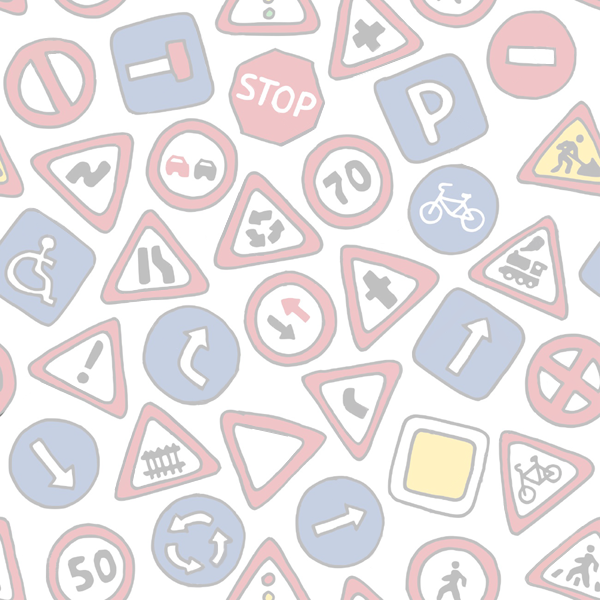
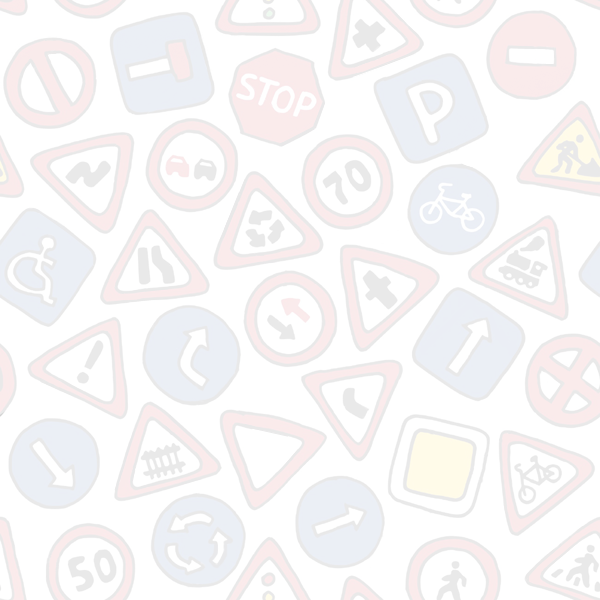
Css cambiado e imágenes nuevas

diff --git a/css/lista_alumnos.css b/css/lista_alumnos.css
@@ -2,6 +2,27 @@
     box-sizing: border-box;
 }
 
+@font-face {
+    font-family: 'Candara'; /*a name to be used later*/
+    src: url('../fonts/Candara.ttf'); /*URL to font*/
+}
+
+@font-face {
+    font-family: 'Gothic'; /*a name to be used later*/
+    src: url('../fonts/Gothic.ttf'); /*URL to font*/
+}
+
+html {
+    background-image: url(../images/tecno.png);
+}
+
+#saludo {
+    margin-left: 20px;
+    font-size: 20px;
+    color: #16004a;
+	text-shadow: 2px 2px 2px #999999;
+}
+
 .row::after {
     content: "";
     clear: both;
@@ -53,12 +74,44 @@
     float: left;
     text-align: center;
     padding-top: 25px;
-    padding-bottom: 22px;
-    border: 1px solid red;
-
+    padding-bottom: 24px;
+    background-color: bisque;
+    border-top-left-radius: 10px;
+    border-bottom-left-radius: 10px;
+    opacity: 0.7;
+    border-bottom: 2px solid rgba(255,255,255,1);
 }
 
 #alum {
     float: left;
-    border: 1px solid blue;
+    background-color: bisque;
+    border-top-right-radius: 10px;
+    border-bottom-right-radius: 10px;
+    opacity: 0.7;
+    border-bottom: 2px solid rgba(255,255,255,1);
+}
+
+body {
+    font-family: "Candara";
+}
+
+#form {
+    font-family: "Gothic";
+    font-size: 14.5px;
+}
+
+#fecha_form {
+    font-family: "Gothic";
+    font-size: 18px;
+}
+
+#lista {
+    border-style: none;
+}
+
+#titulo {
+    margin-top: 0px;
+    font-family: "Candara";
+    color: #16004a;
+    font-size: 30px;
 }

diff --git a/css/calendario.css b/css/calendario.css
@@ -12,15 +12,29 @@ html {
     background-image: url(../images/tecno.png);
 }
 
+#saludo {
+    margin-left: 20px;
+    font-size: 20px;
+    color: #16004a;
+	text-shadow: 2px 2px 2px #999999;
+}
+
+#fecha_form {
+    font-family: "Gothic";
+    font-size: 18px;
+}
+
 
 #ex_p {
     float: left;
     width: 49.5%;
+    color: #16004a;
 }
 
 #ex_t {
     float: right;
     width: 49.5%;
+    color: #16004a;
 }
 
 #fecha {
@@ -34,23 +48,23 @@ html {
 
 #titulo {
     font-family: "Candara";
-    color: #2a2a2a;
+    color: #16004a;
     margin-left: 20px;
 }
 
 #fecha_cl {
     font-family: "Gothic";
-    color: #2a2a2a;
+    color: #21016d;
 }
 
 #alumno_cl {
     font-family: "Candara";
-    color: #2a2a2a;
+    color: #21016d;
 }
 
 #coche_cl {
     font-family: "Gothic";
-    color: #2a2a2a;
+    color: #21016d;
 }
 
 #ex {
@@ -74,7 +88,8 @@ td {
     border-right: 1px solid transparent;
     padding: 10px;
     background-color: bisque;
-    opacity: 0.8;
+    opacity: 0.7;
+    border-radius: 8px;
 }
 
 th {
@@ -83,9 +98,9 @@ th {
     padding-bottom: 10px;
     padding-top: 10px;
     font-family: "Candara";
-    color: #2a2a2a;
+    color: #16004a;
     background-color: bisque;
-    opacity: 0.8;
+    opacity: 0.7;
     border-radius: 8px;
 }
 
@@ -105,6 +120,6 @@ a {
 
 p {
     font-family: "Candara";
-    color: #2a2a2a;
+    color: #16004a;
 }
 

diff --git a/lista_alumnos.php b/lista_alumnos.php
@@ -61,7 +61,7 @@
             var mes = fecha.getMonth() + 1;
             
         $(document).ready(function(){
-            $("#fecha_hoy").append( "<p>Hoy estamos a " + fecha.getDate() + "/" + mes + "/" + fecha.getFullYear() + ". ¡Qué tengas un buen día!</p>");
+            $("#fecha_hoy").append( "<p id='saludo'>Hoy estamos a <span id='fecha_form'>" + fecha.getDate() + "/" + mes + "/" + fecha.getFullYear() + "</span>. ¡Qué tengas un buen día!</p>");
         })
         }
     </script>
@@ -69,7 +69,10 @@
 <body onload="fechaHoy();">
 <?php include_once("cabecera.php") ?>
     <div id="fecha_hoy"></div>    
-<fieldset>
+<fieldset id="lista">
+    <legend>
+        <h1 id="titulo">Lista de alumnos</h1>
+    </legend>
     <form action="utiles/busqueda_alumnos.php">
         <input class="col-3" id="buscarnombre" name="buscarnombre" type="text" placeholder="Buscar por nombre">
         <input class="col-3" id="buscarapellido" name="buscarapellido" type="text" placeholder="Buscar por apellido">
@@ -82,26 +85,24 @@
     </form>
     <br>
     <?php if(!$searchingAlum){ ?>
-    <div id="enlaces">
+    <div id="enlaces"><span id='form'>
 			<!-- Código para poner los enlaces a las páginas -->
             <?php 
                 $n_paginas = ceil($total_size / $page_size);
                 $i_paginas = 1;
                 for($i_paginas = 1; $i_paginas <= $n_paginas; $i_paginas++){
             ?>
-            <a href = "lista_alumnos.php?page_num=<?php echo $i_paginas?>&page_size=<?php echo $page_size?>"><?php echo $i_paginas?></a>
+        <a href = "lista_alumnos.php?page_num=<?php echo $i_paginas?>&page_size=<?php echo $page_size?>"><?php echo $i_paginas?></a></span>
 		</div>
 		  <?php } ?>
 		<form method="get" action="lista_alumnos.php">
 			<!-- Formulario que contiene el número y cambio de tamaño de página -->
-            Mostrando <input type="number" name="page_size" min="1" max="<?php echo $total_size?>" value="<?php echo $mostrando?>"> entradas de <?php echo $total_size?><input type="number" name="page_num" value="<?php echo $page_num?>" hidden>. <input type=submit value="Cambiar">
-            <a href = "anadir/anadir_alumno.php">+ Nuevo alumno</a>
+            Mostrando <input type="number" name="page_size" min="1" max="<?php echo $total_size?>" value="<?php echo $mostrando?>"> entradas de <span id='form'><?php echo $total_size?></span><input type="number" name="page_num" value="<?php echo $page_num?>" hidden>. <input type=submit value="Cambiar"><br>
+            <a href = "anadir/anadir_alumno.php"><img src="images/anadir_alumno.png" title="Añadir alumno"></a>
 		</form>
     <br>
     <?php } ?>
-    <legend>
-    Lista de alumnos
-    </legend>
+
     <?php if($hayErrores){ ?>
     <fieldset>
         <legend>Han ocurrido errores</legend>
@@ -116,7 +117,7 @@
                 <input type="submit" value="Ver más">
           </form>
     <div class="col-11" id="alum" > <?php echo $alumno['APELLIDOS'] ?>, <?php echo $alumno['NOMBRE'] ?> 
-          <br><strong>DNI: </strong> <?php echo $alumno['DNI'] ?>
+        <br><strong>DNI: </strong> <span id='form'><?php echo $alumno['DNI'] ?></span>
         <em><?php if ($alumno['BAJA']=='SI'){ echo ' (Dado de baja)'; } ?></em>
     </div>
     <?php } ?>

diff --git a/calendario.php b/calendario.php
@@ -22,7 +22,7 @@
             var mes = fecha.getMonth() + 1;
             
         $(document).ready(function(){
-            $("#fecha_hoy").append( "<p>Hoy estamos a " + fecha.getDate() + "/" + mes + "/" + fecha.getFullYear() + ". ¡Qué tengas un buen día!</p>");
+            $("#fecha_hoy").append( "<p id='saludo'>Hoy estamos a <span id='fecha_form'>" + fecha.getDate() + "/" + mes + "/" + fecha.getFullYear() + "</span>. ¡Qué tengas un buen día!</p>");
         })
         }
     </script>
@@ -31,7 +31,7 @@
 <body id="formulario" onload="fechaHoy();">
     <?php include_once("./cabecera.php");
     ?>
-    <a href="calendario_examenes.php"><img src="./images/examen.png"></a>
+    <a href="calendario_examenes.php"><img src="./images/examen.png" title="Cambiar a exámenes"></a>
     <h1 id="titulo">Calendario de Clases*</h1>
     <div id="fecha_hoy"></div>
     <table> 

diff --git a/calendario_examenes.php b/calendario_examenes.php
@@ -18,7 +18,7 @@
             var mes = fecha.getMonth() + 1;
             
         $(document).ready(function(){
-            $("#fecha_hoy").append( "<p>Hoy estamos a " + fecha.getDate() + "/" + mes + "/" + fecha.getFullYear() + ". ¡Qué tengas un buen día!</p>");
+            $("#fecha_hoy").append( "<p id='saludo'>Hoy estamos a <span id='fecha_form'>" + fecha.getDate() + "/" + mes + "/" + fecha.getFullYear() + "</span>. ¡Qué tengas un buen día!</p>");
         })
         }
     </script>
@@ -26,7 +26,7 @@
     
 <body onload="fechaHoy();">
     <?php include_once("./cabecera.php"); ?>
-    <a href="calendario.php"><img src="./images/car.png"></a>
+    <a href="calendario.php"><img src="./images/car.png" title="Cambiar a clases"></a>
     <h1 id="titulo">Calendario de Exámenes</h1>
     <div id="fecha_hoy"></div>
     <div id="ex_t">
